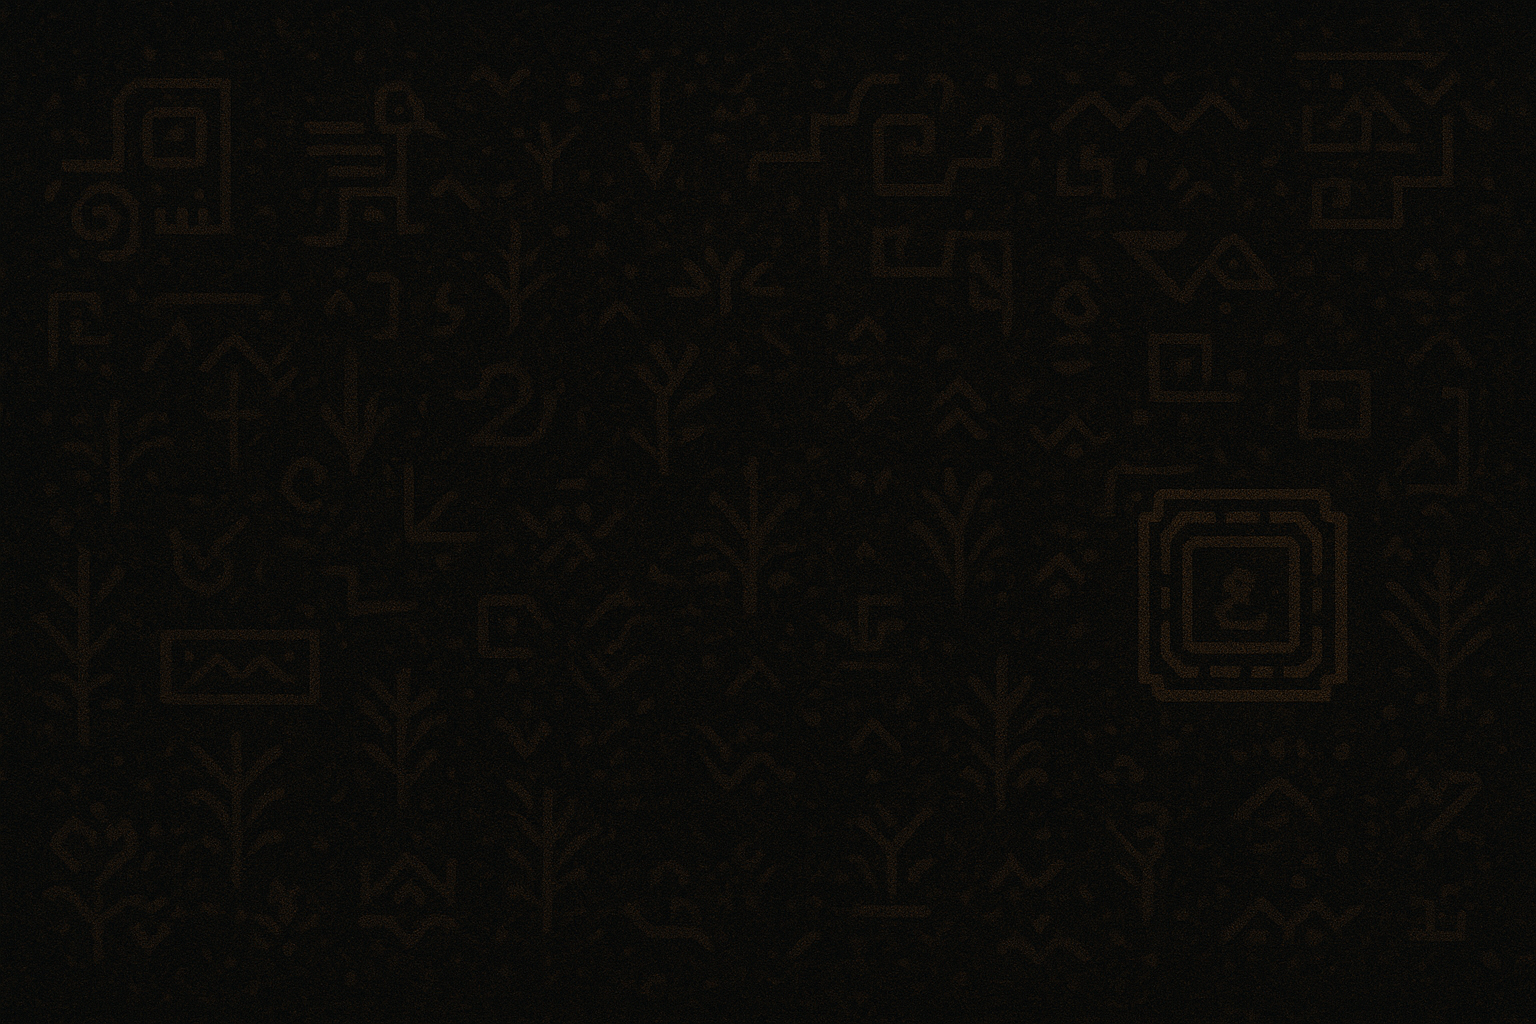
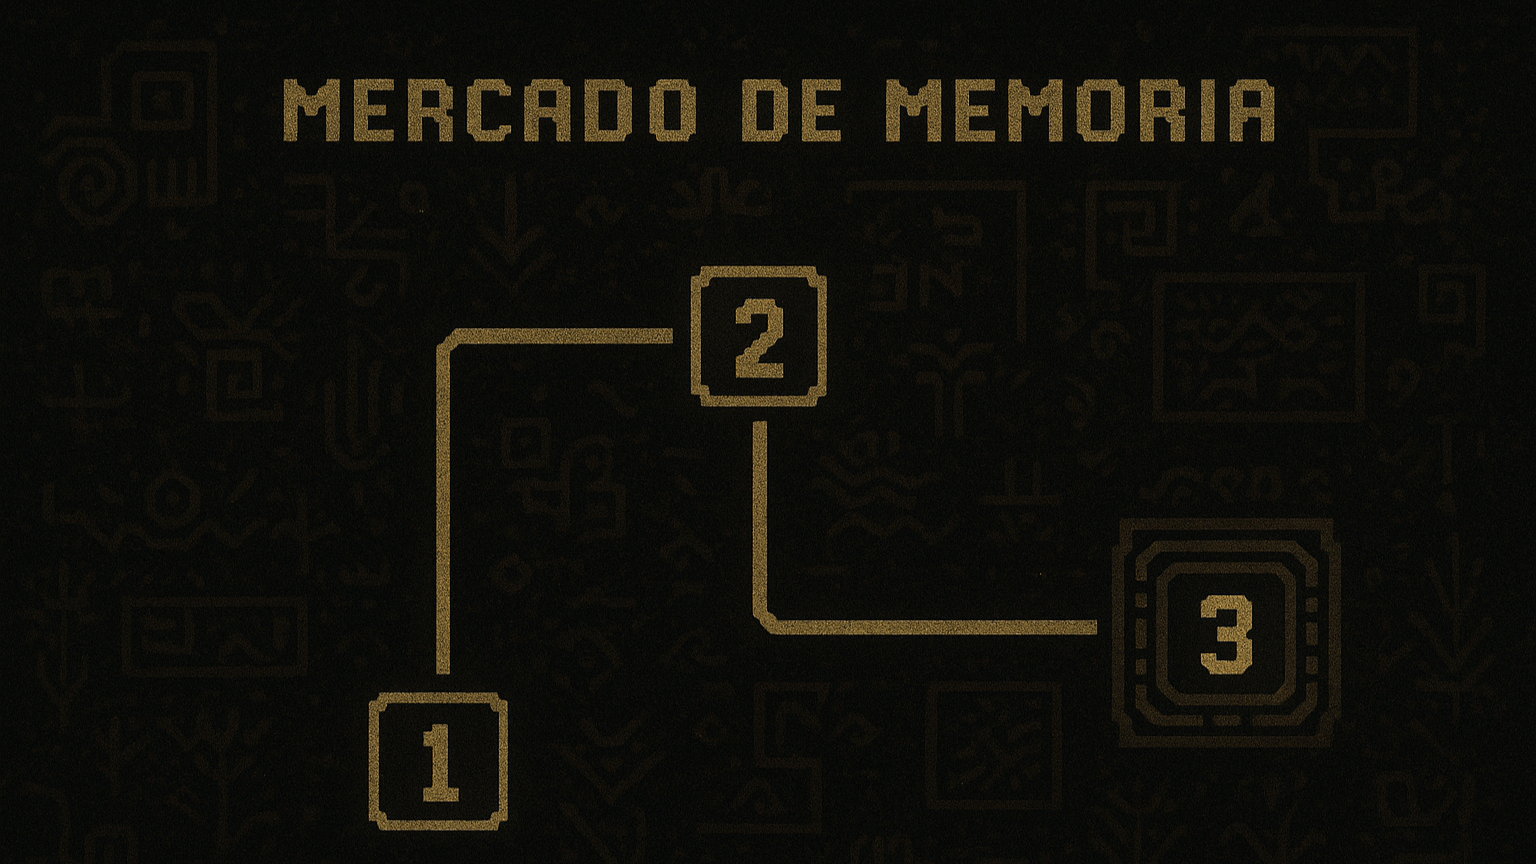
fase 3 y 4 terminadas

diff --git a/frontend/src/pages/Fase3.jsx b/frontend/src/pages/Fase3.jsx
@@ -5,34 +5,41 @@ import mapaFondo from "/background/fondo_fase_3.png";
 import NivelButton from "../components/NivelButton.jsx";
 
 // Imágenes de botones
-import nivel1Img from "/nivel/nivel1.png";
-import nivel2Img from "/nivel/nivel2.png";
-import nivel3Img from "/nivel/nivel3.png";
+import nivel1Img from "/nivel/nivel3_1.png";
+import nivel2Img from "/nivel/nivel3_2.png";
+import nivel3Img from "/nivel/nivel3_3.png";
 
-export default function MapaFase() {
+export default function Fase3() {
   const navigate = useNavigate();
 
   const irANivel = (nivel) => {
-    navigate(`/fase3/${nivel}`);
+    navigate(`/fase3/nivel${nivel}`);
   };
 
   return (
     <div
-      className="relative h-screen w-screen bg-black flex items-center justify-center"
+      className="
+                  overflow-hidden
+                  flex flex-col 
+                  h-screen w-screen 
+                  justify-center items-center 
+                  bg-no-repeat
+                "
       style={{
         backgroundImage: `url(${mapaFondo})`,
         backgroundSize: "cover",
         backgroundPosition: "center",
       }}
     >
-        <h1 className="absolute text-6xl top-15 text-[#615039]">Mercado de memoria</h1>
       {/* SVG de líneas */}
+      {/* 
       <svg
         className="absolute w-full h-full"
         viewBox="0 0 1000 1000"
         preserveAspectRatio="none"
       >
         {/* Línea del nivel 1 al nivel 2 */}
+        {/* 
         <line
         x1="33%" y1="65%"
         x2="33%" y2="45%"
@@ -44,7 +51,9 @@ export default function MapaFase() {
         x2="50%" y2="45%"
         stroke="#7d6b52" strokeWidth="12" strokeLinecap="round"
         />
+        */}
         {/* Línea del nivel 2 al nivel 3 */}
+        {/* 
         <line
         x1="50%" y1="45%"
         x2="72.5%" y2="45%"
@@ -56,30 +65,37 @@ export default function MapaFase() {
         stroke="#7d6b52" strokeWidth="8" strokeLinecap="round"
         />
       </svg>
+      */}
+      
 
       {/* Botones de niveles */}
       <NivelButton
         numero={1}
         img={nivel1Img}
-        posicion={{ top: "65%", left: "30%" }}
-        scale={1.2}
+        posicion={{ top: "95%", left: "29.5%" }}
+        scale={1.9}
         onClick={() => irANivel(1)}
+        shadowColor={"0 0 15px rgba(212,175,55,0.9)"}
       />
 
       <NivelButton
         numero={2}
         img={nivel2Img}
-        posicion={{ top: "40%", left: "46%" }}
-        scale={1}
+        posicion={{ top: "39.25%", left: "50.25%" }}
+        scale={1.9}
         onClick={() => irANivel(2)}
+        shadowColor={"0 0 15px rgba(212,175,55,0.9)"}
+
       />
 
       <NivelButton
         numero={3}
         img={nivel3Img}
-        posicion={{ top: "60%", left: "70%" }}
-        scale={1.1}
+        posicion={{ top: "78.25%", left: "81%" }}
+        scale={3.1}
         onClick={() => irANivel(3)}
+        shadowColor={"0 0 15px rgba(212,175,55,0.9)"}
+
       />
     </div>
   );

diff --git a/frontend/src/pages/Fase4.jsx b/frontend/src/pages/Fase4.jsx
@@ -1,0 +1,66 @@
+// src/pages/MapaFase.jsx
+import { useNavigate } from "react-router-dom";
+import mapaFondo from "/background/fondo_fase_4.png";
+
+import NivelButton from "../components/NivelButton.jsx";
+
+// Imágenes de botones
+import nivel1Img from "/nivel/nivel4_1.png";
+import nivel2Img from "/nivel/nivel4_2.png";
+import nivel3Img from "/nivel/nivel4_3.png";
+
+export default function Fase4() {
+  const navigate = useNavigate();
+
+  const irANivel = (nivel) => {
+    navigate(`/fase4/nivel${nivel}`);
+  };
+
+  return (
+    <div
+      className="       
+                    overflow-hidden              
+                    flex flex-col     
+                    h-screen w-screen 
+                    justify-center items-center 
+                    bg-no-repeat
+                "
+      style={{
+        backgroundImage: `url(${mapaFondo})`,
+        backgroundSize: "cover",
+        backgroundPosition: "center",
+      }}
+    >
+      {/* Botones de niveles */}
+      <NivelButton
+        numero={1}
+        img={nivel1Img}
+        posicion={{ top: "91%", left: "28.5%" }}
+        scale={2}
+        onClick={() => irANivel(1)}
+        shadowColor={"0 0 15px rgba(89,173,215,0.9)"}
+
+      />
+
+      <NivelButton
+        numero={2}
+        img={nivel2Img}
+        posicion={{ top: "42%", left: "49.75%" }}
+        scale={2}
+        onClick={() => irANivel(2)}
+        shadowColor={"0 0 15px rgba(89,173,215,0.9)"}
+
+      />
+
+      <NivelButton
+        numero={3}
+        img={nivel3Img}
+        posicion={{ top: "78.25%", left: "82%" }}
+        scale={2.4}
+        onClick={() => irANivel(3)}
+        shadowColor={"0 0 15px rgba(89,173,215,0.9)"}
+
+      />
+    </div>
+  );
+}

diff --git a/frontend/src/components/NivelButton.jsx b/frontend/src/components/NivelButton.jsx
@@ -1,12 +1,22 @@
 // src/components/NivelButton.jsx
-export default function NivelButton({ numero, img, posicion, onClick }) {
+import { useState } from "react";
+export default function NivelButton({ numero, img, posicion, onClick, scale, shadowColor }) {
+  const [hovered, setHovered] = useState(false);
+
   return (
     <img
       src={img}
       alt={`Nivel ${numero}`}
       onClick={onClick}
-      className="absolute w-20 h-20 cursor-pointer hover:scale-170 hover:drop-shadow-[0_0_15px_rgba(212,175,55,0.9)] transition-transform transform scale-150 duration-300"
-      style={{ top: posicion.top, left: posicion.left }}
+      onMouseEnter={() => setHovered(true)}
+      onMouseLeave={() => setHovered(false)}
+      className={`absolute w-20 h-20 cursor-pointer hover:scale-170 transition-transform transform scale-150 duration-300 transition-filter`}
+      style={{
+        top: posicion.top,
+        left: posicion.left,
+        transform: `translate(-50%, -50%) scale(${scale})`,
+                filter: hovered && shadowColor ? `drop-shadow(${shadowColor})` : "none",
+      }}
     />
   );
 }

diff --git a/frontend/src/App.jsx b/frontend/src/App.jsx
@@ -4,6 +4,7 @@ import Login from "./pages/Login";
 import SignUp from "./pages/SignUp";
 import Roles from "./pages/Roles";
 import Fase3 from "./pages/Fase3";
+import Fase4 from "./pages/Fase4";
 function App() {
 
   return (
@@ -14,6 +15,7 @@ function App() {
         <Route path="/signup" element={<SignUp />} />
         <Route path="/roles" element={<Roles />} />
         <Route path="/fase3" element={<Fase3 />} />
+        <Route path="/fase4" element={<Fase4 />} />
       </Routes>
     </Router>
   );
